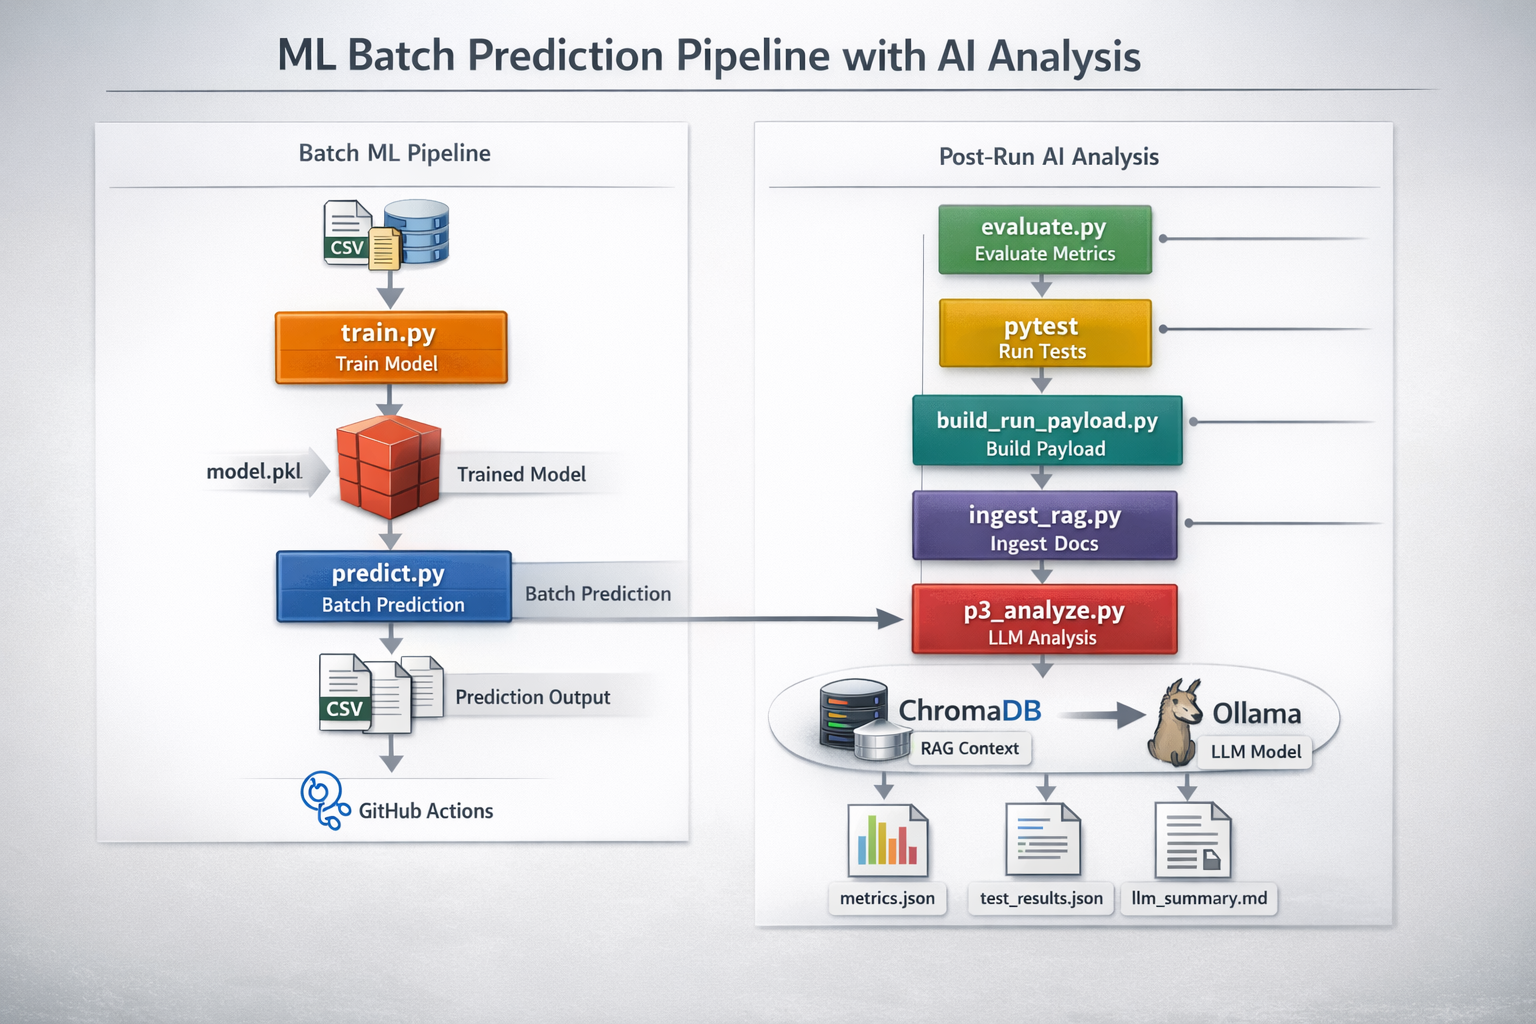
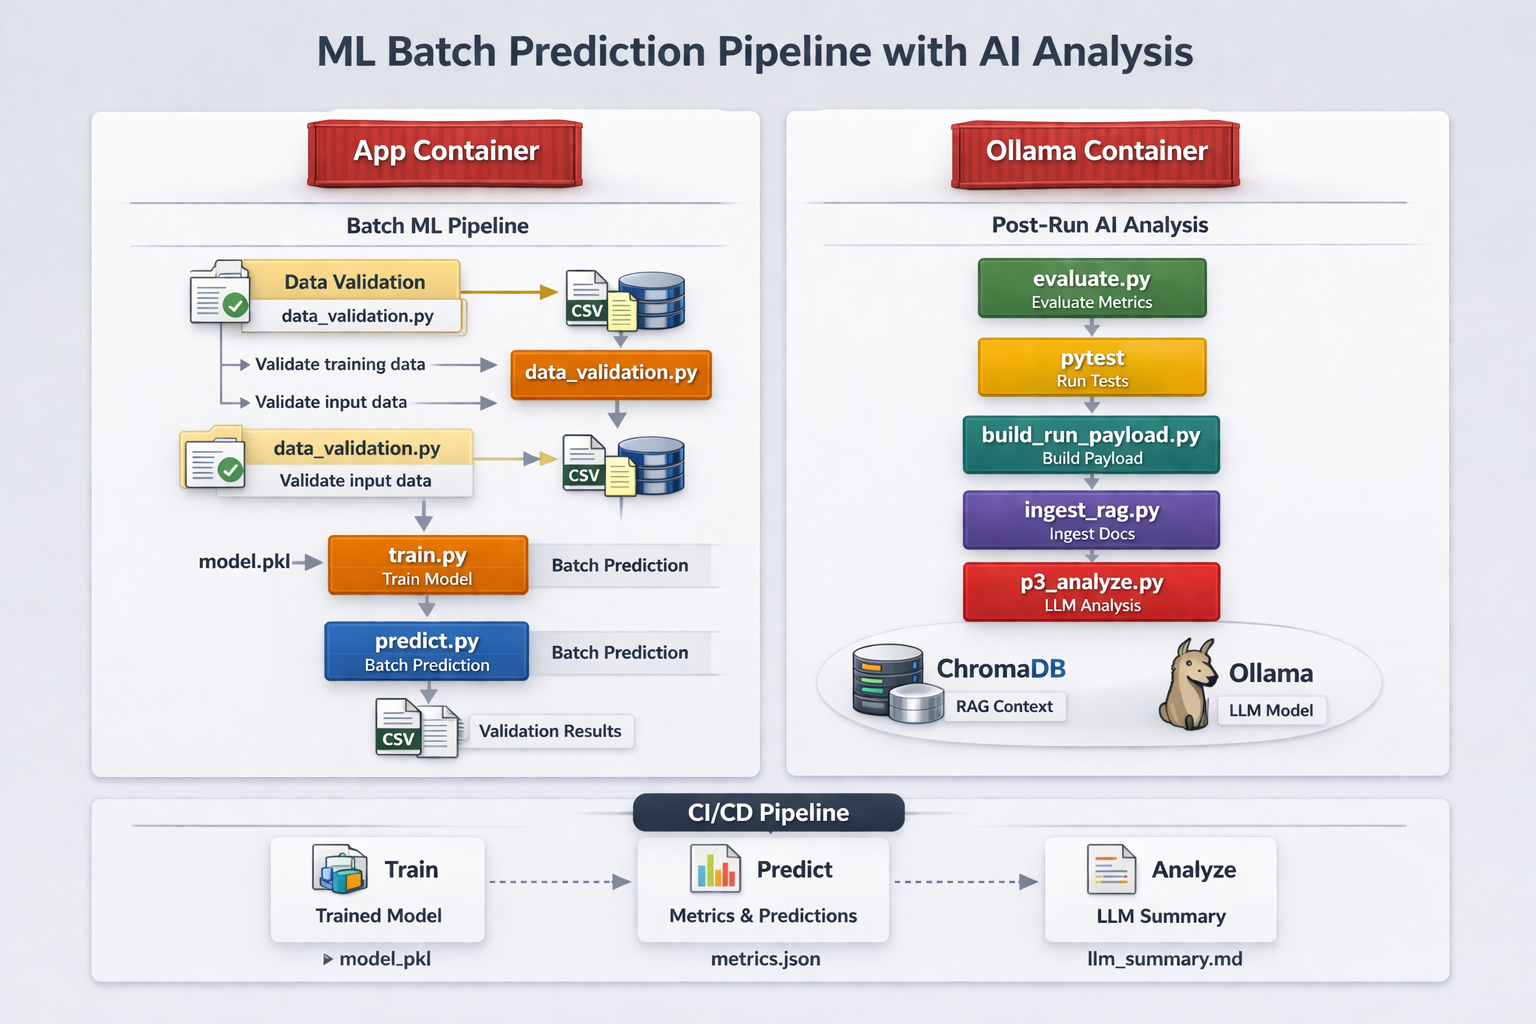
updated readme

diff --git a/README.md b/README.md
@@ -1,10 +1,10 @@
 # ML Batch Prediction Pipeline with AI Analysis
 
-Built an end-to-end batch ML pipeline using Python, scikit-learn, Docker, and GitHub Actions, extended with automated evaluation, real pytest-based validation, and AI-powered post-run analysis using Ollama and ChromaDB RAG.
+Built an end-to-end batch ML pipeline using Python, scikit-learn, Docker, Docker Compose, and GitHub Actions, extended with automated evaluation, real pytest-based validation, input data validation, and AI-powered post-run analysis using Ollama and ChromaDB RAG.
 
-A portfolio project that combines a production-style batch machine learning pipeline with post-run AI analysis.
+A portfolio project that combines a production-style batch machine learning pipeline with post-run AI analysis and a data quality gate at the start of the workflow.
 
-This project trains a churn prediction model, performs batch inference on new input data, evaluates model performance, runs automated tests, and generates an AI-written analysis report using Ollama and ChromaDB-based RAG.
+This project trains a churn prediction model, validates incoming CSV data before processing, performs batch inference on new input data, evaluates model performance, runs automated tests, and generates an AI-written analysis report using Ollama and ChromaDB-based RAG.
 
 ---
 
@@ -21,11 +21,14 @@ This project goes further and shows the surrounding engineering work that compan
 - batch ML pipeline design
 - model persistence and reuse
 - Docker-based execution
+- multi-container local setup with Docker Compose
 - GitHub Actions CI/CD automation
 - structured evaluation artifacts
 - real pytest-based validation
+- input data validation before train and predict
 - AI-assisted post-run analysis
 - local RAG pipeline using Ollama + ChromaDB
+- branch-based safe development and iterative debugging
 
 ---
 
@@ -38,6 +41,13 @@ This project goes further and shows the surrounding engineering work that compan
 - generates predictions in batch mode
 - saves prediction outputs and logs
 
+### New validation layer
+- validates `training_data.csv` before training
+- validates `input_data.csv` before prediction
+- checks schema, required columns, numeric fields, nulls, duplicates, and target values
+- fails fast on critical data quality issues
+- writes machine-readable and human-readable validation reports
+
 ### P3 capabilities
 - evaluates model performance on the held-out test split
 - creates structured metrics artifacts
@@ -45,6 +55,7 @@ This project goes further and shows the surrounding engineering work that compan
 - builds a local vector store from project knowledge files
 - retrieves relevant RAG context for analysis
 - uses Ollama to generate a human-readable summary of the run
+- includes data validation results in the final AI summary
 - packages all outputs into final analysis artifacts
 
 ---
@@ -55,20 +66,21 @@ This project goes further and shows the surrounding engineering work that compan
 
 #### 1. `training_data.csv`
 - 1500 labeled rows
-- Use this to train and test a churn prediction model
-- Target column: `churn`
+- used to train and test a churn prediction model
+- target column: `churn`
   - `1` = churned
   - `0` = retained
 
 #### 2. `input_data.csv`
 - 300 unlabeled rows
-- Use this as new incoming batch data for inference
-- This file does not contain the `churn` column because the model should predict it
+- used as new incoming batch data for inference
+- this file does not contain the `churn` column because the model should predict it
 
 ---
 
 ### Columns
 
+#### Training data columns
 - `customer_id`: unique customer identifier
 - `age`: customer age
 - `monthly_spend`: current recurring spend
@@ -81,14 +93,51 @@ This project goes further and shows the surrounding engineering work that compan
 - `num_products`: number of subscribed products
 - `discount_used`: `1` if discount applied, else `0`
 - `avg_session_minutes`: average session length
+- `churn`: target label
+
+#### Prediction input columns
+- same as above except without `churn`
 
 ---
 
 ### Suggested local folders
 
-- `data/training_data.csv`
+- `data/raw/training_data.csv`
 - `input/input_data.csv`
 
+---
+
+## Data validation layer
+
+The pipeline now validates data before model execution begins.
+
+### Training validation checks
+- file exists and is not empty
+- CSV parses correctly
+- required training columns exist
+- `churn` target exists
+- numeric columns are numeric-compatible
+- mandatory columns are not null
+- duplicate rows are checked
+- duplicate `customer_id` values are checked
+- target values are limited to allowed values
+
+### Prediction validation checks
+- file exists and is not empty
+- CSV parses correctly
+- required prediction columns exist
+- numeric columns are numeric-compatible
+- mandatory columns are not null
+- duplicate rows are checked
+- duplicate `customer_id` values are checked
+
+### Validation outputs
+- `artifacts/data_validation_train.json`
+- `artifacts/data_validation_train.md`
+- `artifacts/data_validation_predict.json`
+- `artifacts/data_validation_predict.md`
+
+---
 
 ## Tech stack
 
@@ -99,6 +148,7 @@ This project goes further and shows the surrounding engineering work that compan
 - pytest
 - pytest-json-report
 - Docker
+- Docker Compose
 - GitHub Actions
 - Ollama
 - ChromaDB
@@ -110,11 +160,21 @@ This project goes further and shows the surrounding engineering work that compan
 ```text
 training_data.csv
     ↓
+validate_input.py --mode train
+    ↓
+data_validation_train.json + data_validation_train.md
+    ↓
 train.py
     ↓
 model.pkl
     ↓
-predict.py + input_data.csv
+input_data.csv
+    ↓
+validate_input.py --mode predict
+    ↓
+data_validation_predict.json + data_validation_predict.md
+    ↓
+predict.py
     ↓
 predictions output
     ↓
@@ -122,7 +182,7 @@ evaluate.py
     ↓
 metrics.json + predictions_summary.json
     ↓
-pytest + p3_analyze.py
+pytest + ingest_rag.py + p3_analyze.py
     ↓
 test_results.json + llm_summary.md + llm_summary.json
     ↓
@@ -132,30 +192,76 @@ run_payload.json
 
 ```
 
+## Container architecture
+
+This project now uses a split container design for local AI analysis.
+
+### App container
+
+Runs the Python project code:
+
+- validation
+- training
+- prediction
+- evaluation
+- RAG ingestion
+- AI analysis
+
+### Ollama container
+
+Runs the LLM and embedding models:
+
+- `llama3.2:3b`
+- `nomic-embed-text`
+
+### Compose files
+
+- `Dockerfile` builds the app image
+- `docker-compose.yml` orchestrates local multi-container execution
+- `docker-compose.ci.yml` applies CI-specific override settings
+
+This is closer to a production-style separation than running everything in one process.
+
+---
+
 ## Key outputs
 
 After a successful run, the pipeline produces:
 
 - `models/model.pkl`  
-  Trained model artifact
+  trained model artifact
+
+- `artifacts/data_validation_train.json`  
+  machine-readable training data validation report
+
+- `artifacts/data_validation_train.md`  
+  human-readable training data validation report
+
+- `artifacts/data_validation_predict.json`  
+  machine-readable prediction input validation report
+
+- `artifacts/data_validation_predict.md`  
+  human-readable prediction input validation report
 
 - `artifacts/metrics.json`  
-  Structured evaluation metrics
+  structured evaluation metrics
 
 - `artifacts/predictions_summary.json`  
-  Summary of the latest prediction batch
+  summary of the latest prediction batch
 
 - `artifacts/test_results.json`  
-  Real pytest JSON report
+  real pytest JSON report
 
 - `artifacts/llm_summary.md`  
-  Human-readable AI analysis
+  human-readable AI analysis including validation, test, and metric context
 
 - `artifacts/llm_summary.json`  
-  Machine-readable LLM output with context and prompt details
+  machine-readable LLM output with context, prompt details, and validation snapshots
 
 - `artifacts/run_payload.json`  
-  Final combined payload for downstream review
+  final combined payload for downstream review
+
+---
 
 ## Example engineering value
 
@@ -165,12 +271,16 @@ It shows:
 
 - repeatable ML execution
 - containerized pipeline stages
+- multi-container LLM integration
 - branch-based safe development
 - CI/CD integration
+- data quality validation before execution
 - metrics consistency checks
 - real test-report generation
 - AI-generated operational summaries
 - artifact-driven reporting
+
+---
 
 ## What I built and debugged
 
@@ -184,59 +294,51 @@ During development, the project required fixing real pipeline issues, including:
 - incorrect prediction summary column detection
 - RAG retrieval integration issues
 - metric interpretation errors in generated summaries
+- schema mismatch between validation rules and real CSV headers
+- workflow naming issues in GitHub Actions manual runs
+- Ollama container networking differences between local and CI execution
 
+---
 
 ## GitHub Actions workflow
 
-The GitHub Actions pipeline includes three jobs:
+The GitHub Actions ML pipeline includes three jobs:
 
 ### Train
+
+- installs dependencies
+- validates training data
+- uploads training validation reports
 - builds the Docker image
 - trains the model
 - uploads the trained model artifact
 
 ### Predict
+
+- installs dependencies
+- validates prediction input data
+- uploads prediction validation reports
 - downloads the trained model
 - runs batch prediction
 - uploads prediction outputs and logs
 
 ### Analyze
-- installs Python dependencies
-- installs and starts Ollama
+
+- downloads trained model and prediction outputs
+- starts Ollama in a container
+- pulls LLM and embedding models
 - evaluates the model
 - runs pytest and exports the test report
 - ingests the RAG knowledge base
-- generates the AI summary
+- generates the AI summary including validation results
 - uploads analysis artifacts
 
----
+## Results and Screeshots
 
-## Current status
+![Architecture Diagram](Actions_pipeline.png)
 
-This project is now working end to end for both local runs and CI runs.
+![Architecture Diagram](train.png)
 
-It is a strong portfolio project because it combines:
+![Architecture Diagram](OLLAMA_RAG.png)
 
-- machine learning
-- automation
-- testing
-- CI/CD
-- LLM integration
-- RAG integration
-- debugging and iteration
-
----
-
-## Current limitations
-
-This is still a portfolio project, not a production platform.
-
-Known limitations include:
-
-- model quality is moderate
-- test coverage is minimal
-- no experiment tracking system yet
-- no cloud deployment yet
-- no monitoring dashboard yet
-- no drift detection yet
-- no scheduled retraining yet
+![Architecture Diagram](LLM_SUMMARY.png)
